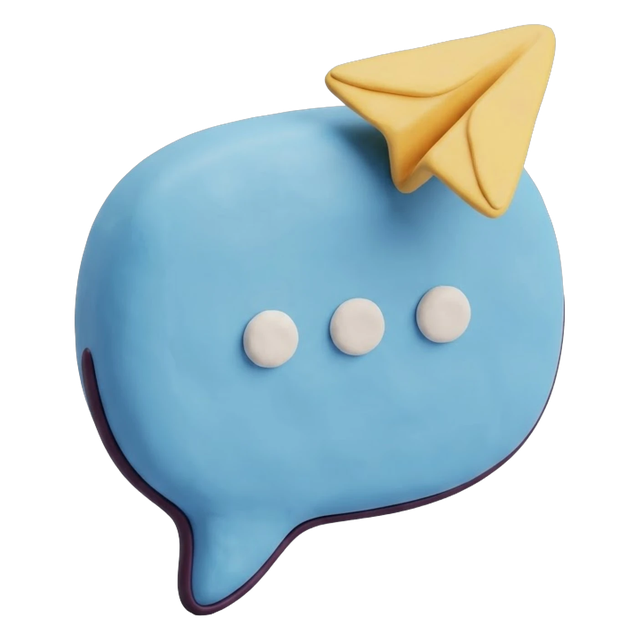
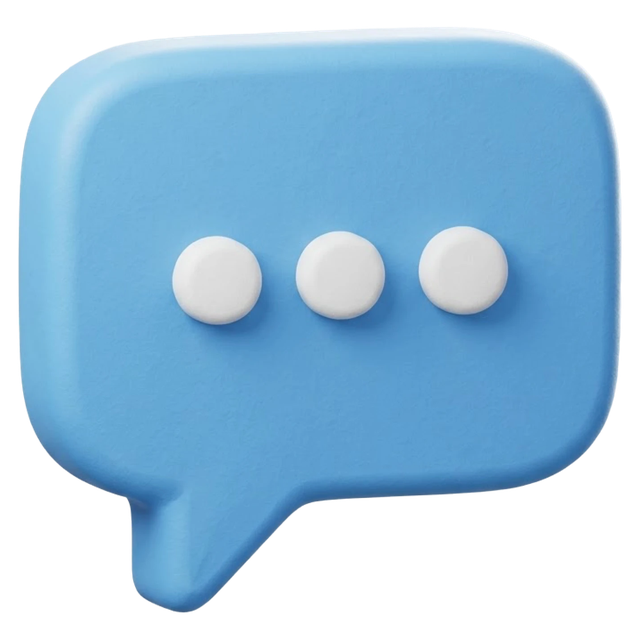
Clay v2: contact speech bubble

diff --git a/docs/CLAY-PROMPTS-V2.md b/docs/CLAY-PROMPTS-V2.md
@@ -125,6 +125,8 @@ off-white = paper, neutral parts.
 > Subject: a rounded hourglass, slightly tilted, finished: the top bulb completely empty, all the sand settled in a mound at the bottom, nothing falling. Coral frame (#F06A6F), off-white glass (#F4F1EC), gold sand (#FFC94D).
 
 **contact** (Contact us, Talk to sales)
+> ✅ Round 1 approved (2026-10-30). Slightly flatter than the set (turned ~10°, not 20°); fine at 56px. Installed.
+>
 > Subject: a thick rounded speech bubble with a clear tail at its lower left, three raised dots inside. Sky blue bubble (#6CB8F0), white dots.
 
 **job-types** (job types pop-up, plan step)
